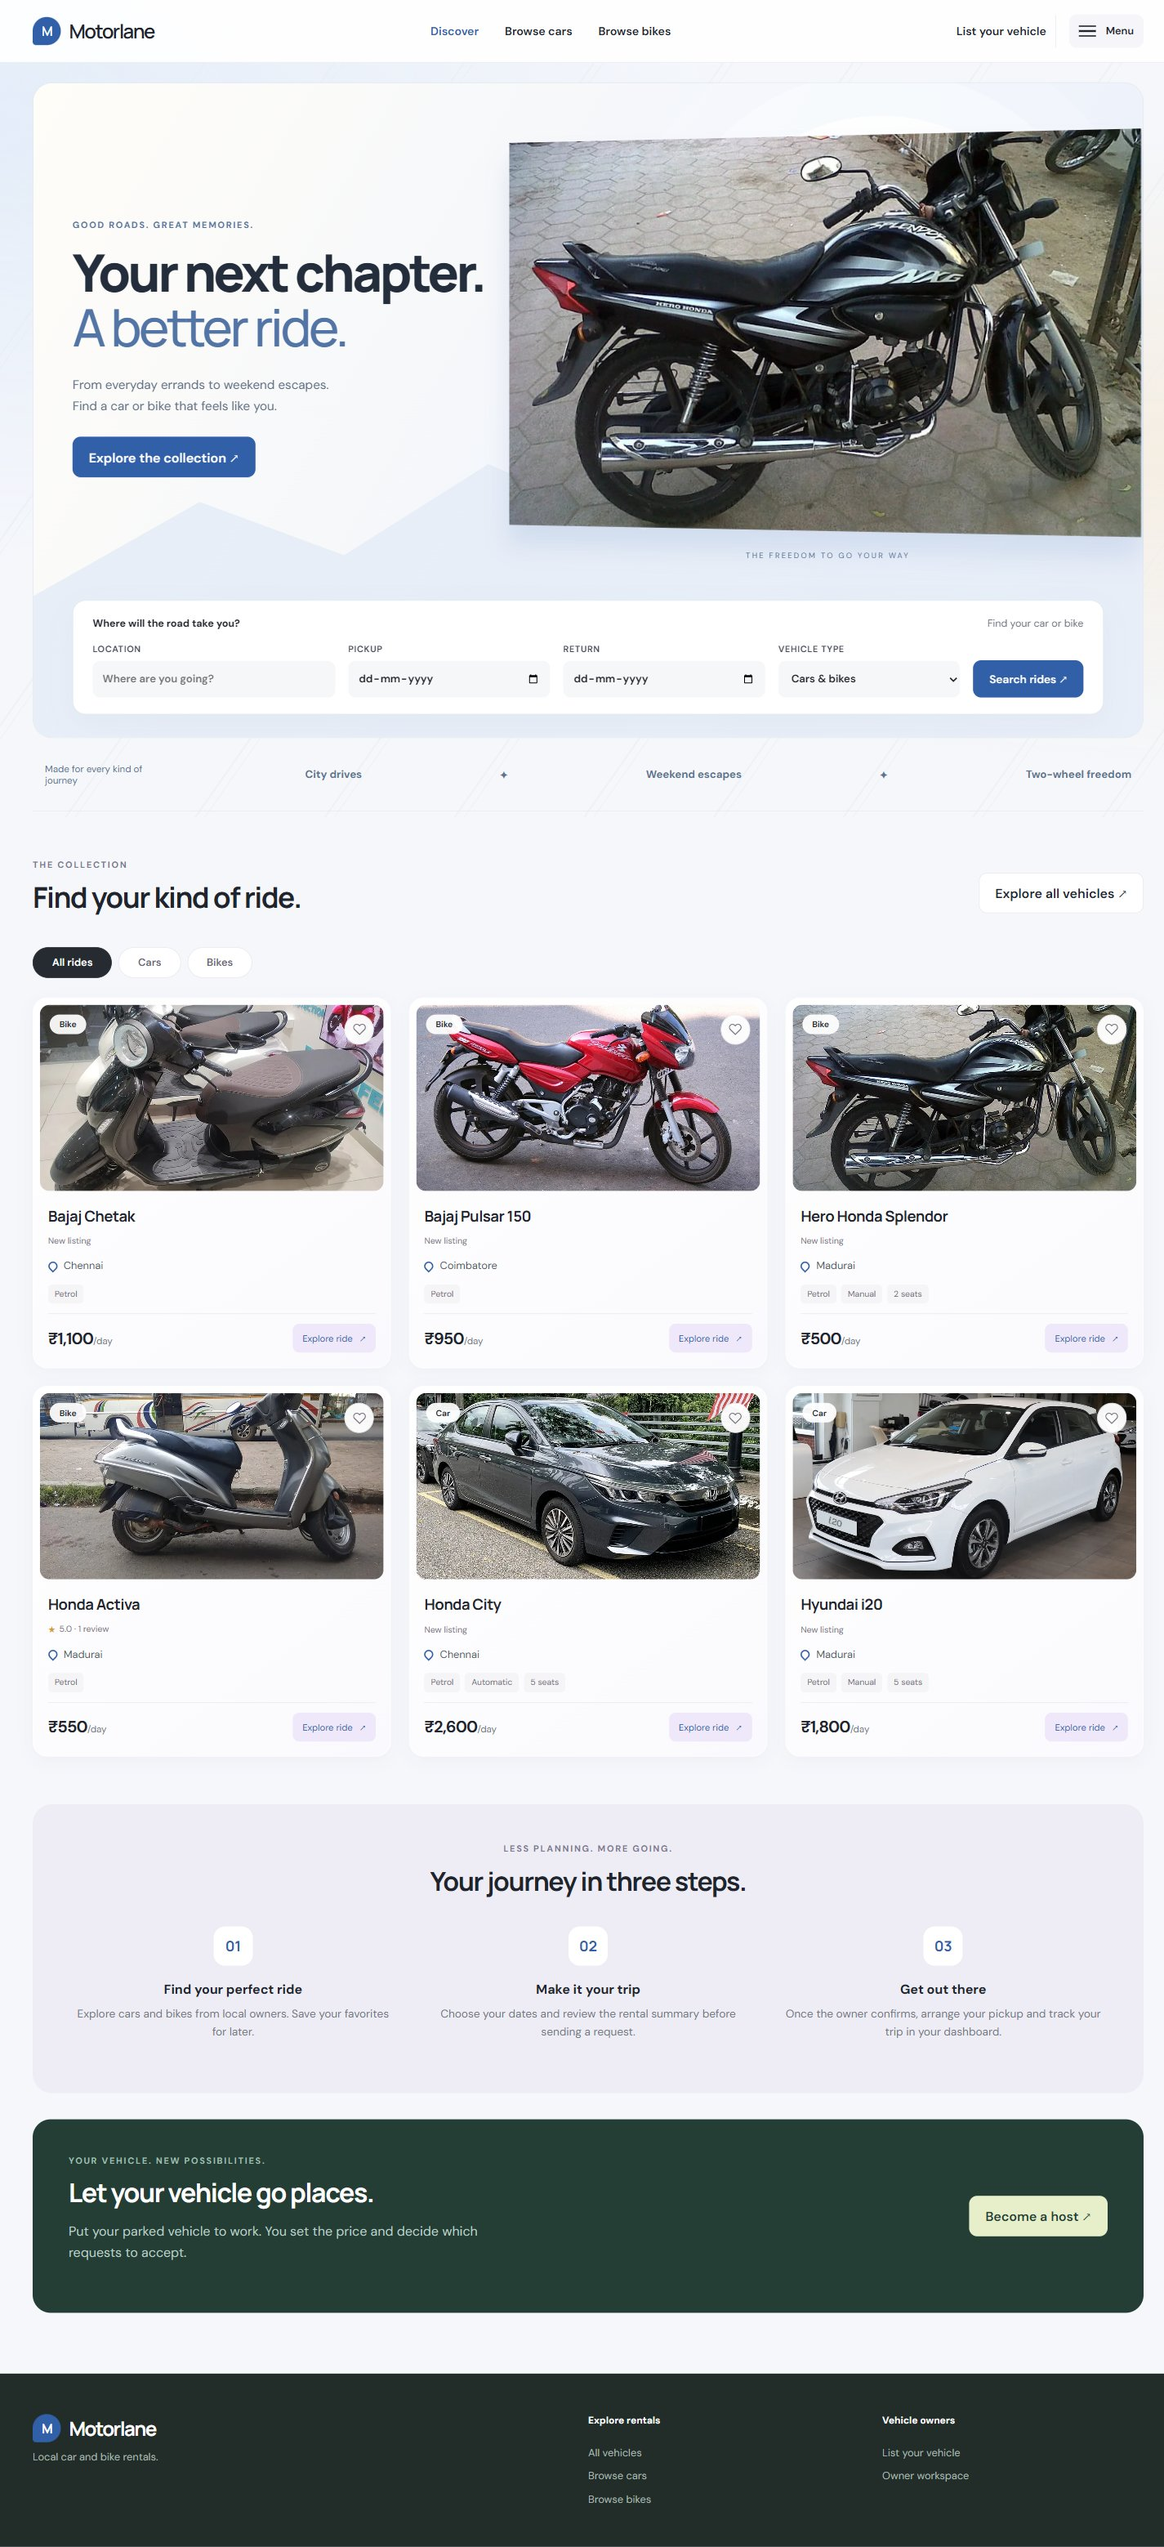
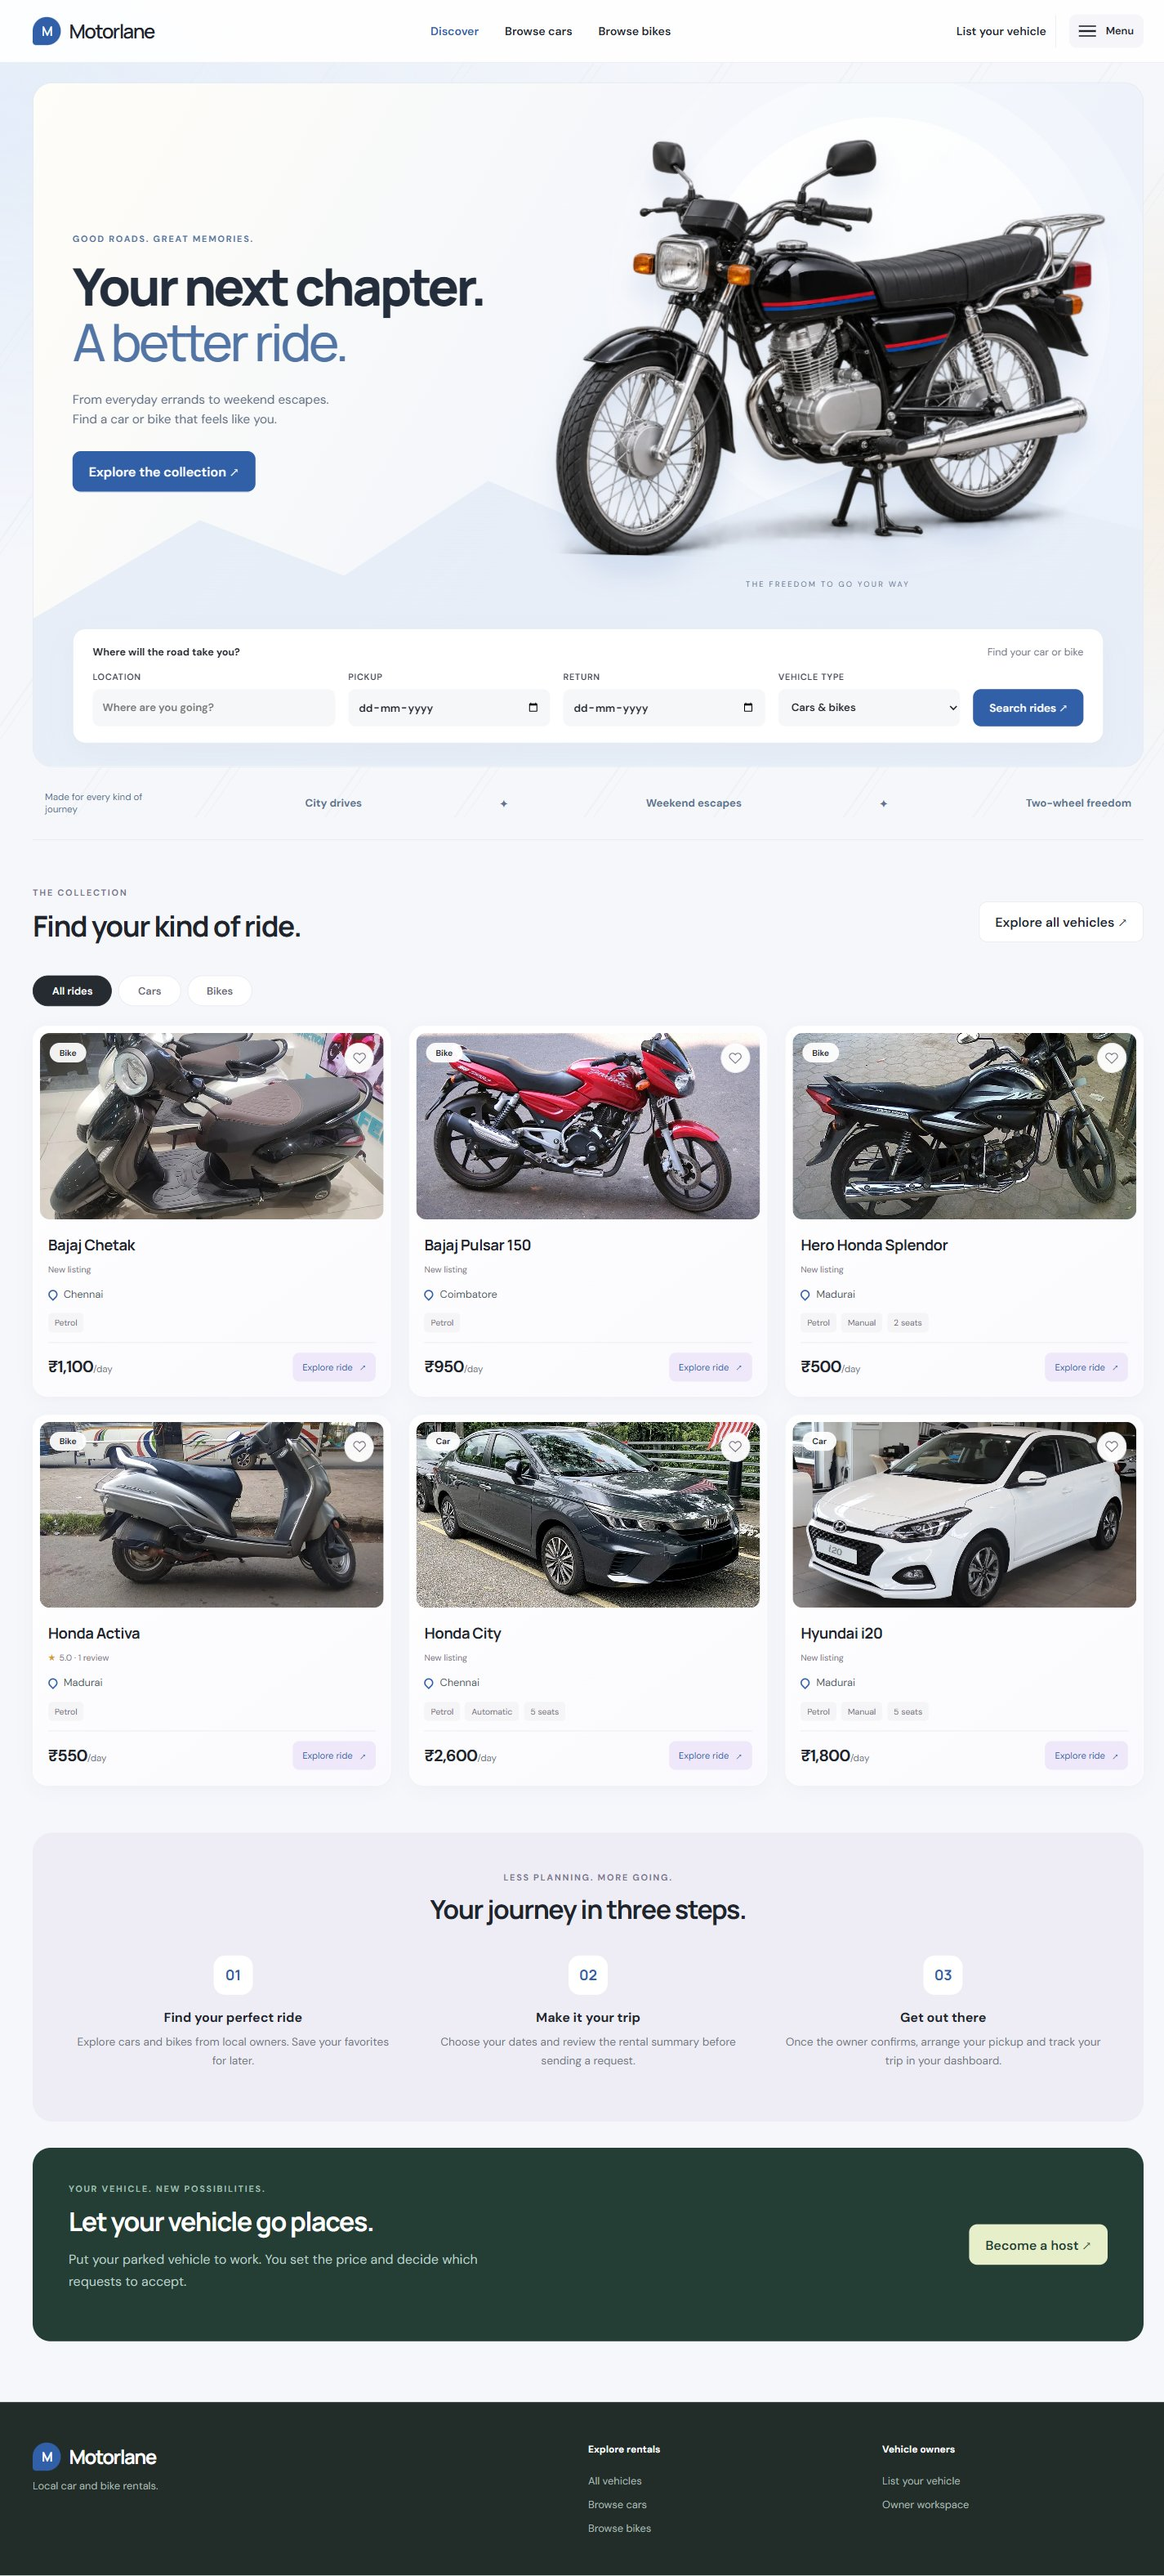
Retake the homepage screenshot with the restored hero

diff --git a/README.md b/README.md
@@ -8,7 +8,7 @@ availability, incoming requests, maintenance, and completed booking value.
 
 ![Motorlane marketplace homepage](docs/screenshots/marketplace.jpg)
 
-Screenshots refreshed on 20 November 2026 from the Docker app with real vehicle photographs. Signed-in pages use demo accounts.
+Screenshots refreshed on 20 November 2026 from the Docker app with real vehicle photographs and the studio hero. Signed-in pages use demo accounts.
 
 ## Architecture
 
